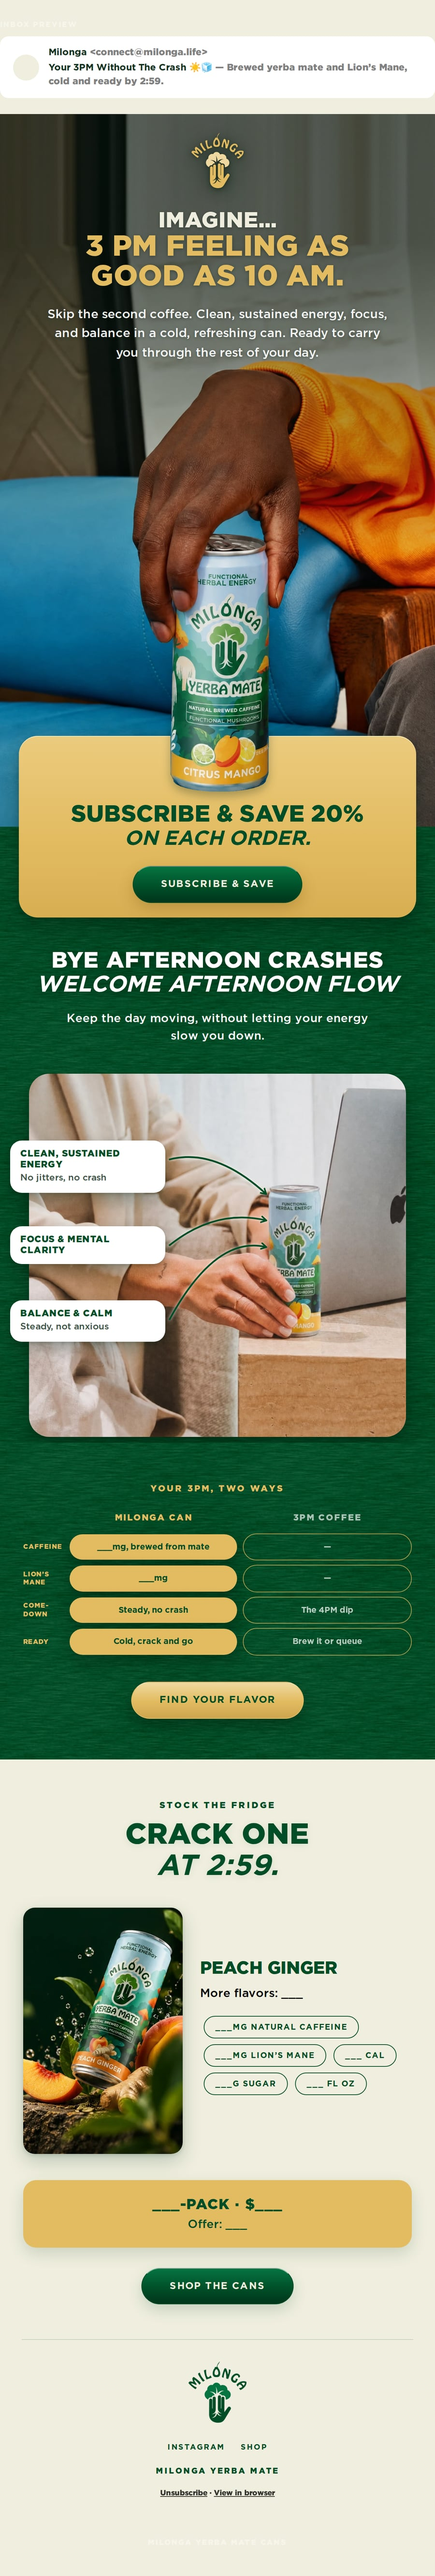
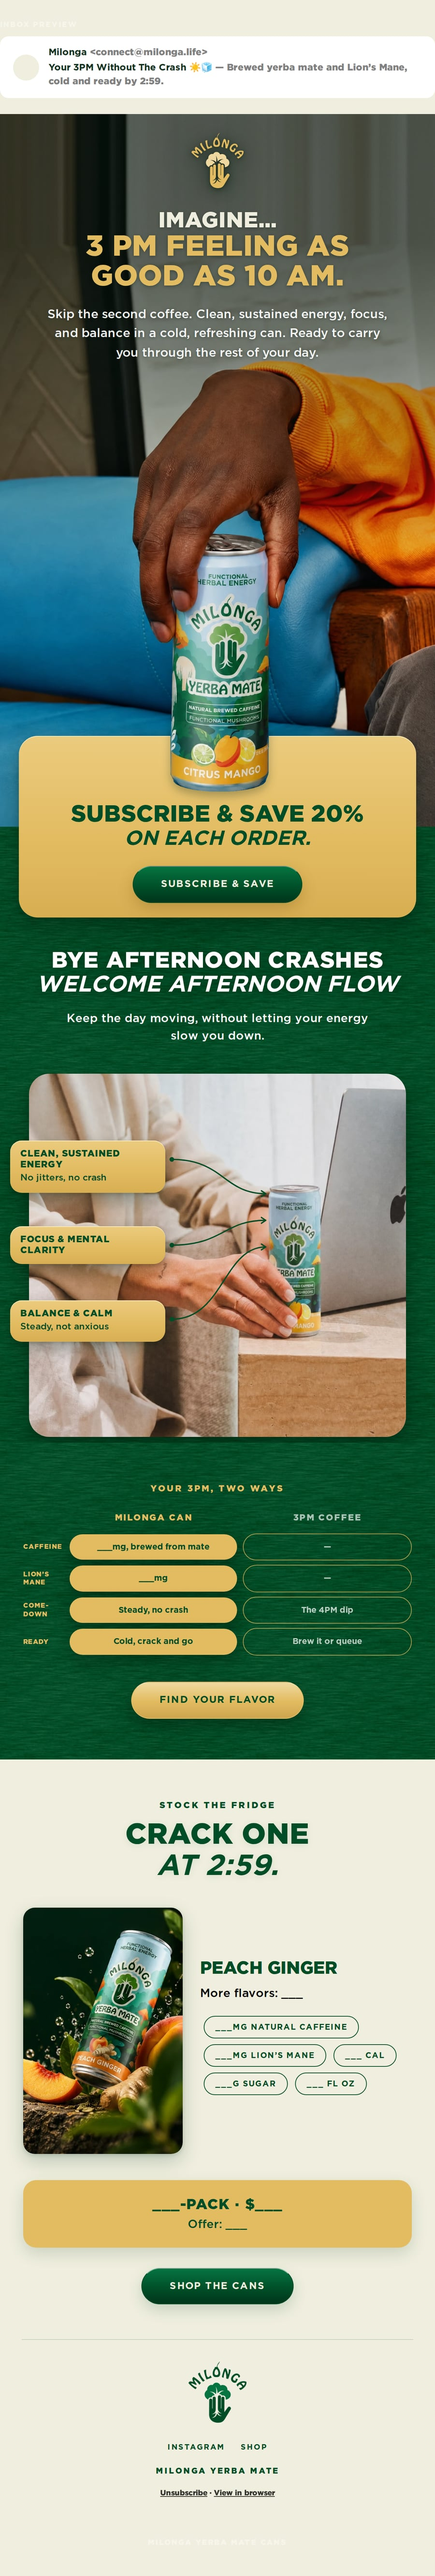
email: gold benefit labels, finer arrows without shadow
Claude-Session: https://claude.ai/code/session_01NhEtXPnfeCJfN73SqBkUZ5

Changed region(s): [[0.0, 0.4369, 0.4356, 0.5306], [0.4356, 0.4681, 0.6222, 0.4993]]

diff --git a/email-ds/emails/three-pm-cans.jsx b/email-ds/emails/three-pm-cans.jsx
@@ -176,29 +176,35 @@ function ThreePmCans() {
 
           CALLOUTS.map((c, i) => h('div', { key: i, style: { position: 'absolute', zIndex: 1,
             left: LABEL.x, top: c.y, width: LABEL.w, boxSizing: 'border-box',
-            background: '#FFFFFF', borderRadius: 16, padding: '11px 14px',
-            boxShadow: '0 10px 22px rgba(0,26,13,0.30), 0 2px 4px rgba(0,26,13,0.18)' } },
+            background: 'linear-gradient(180deg, #EBCB7E 0%, #E3BC62 55%, #D8AE52 100%)',
+            borderRadius: 16, padding: '11px 14px',
+            boxShadow: '0 10px 22px rgba(0,26,13,0.30), 0 2px 4px rgba(0,26,13,0.18), inset 0 1px 0 rgba(255,246,214,0.7)' } },
             h('div', { style: { fontFamily: FONT, fontWeight: 900, fontSize: 12.5, lineHeight: 1.2,
               letterSpacing: '0.06em', textTransform: 'uppercase', color: FOREST } }, c.title),
             c.note ? h('div', { style: { fontFamily: FONT, fontWeight: 500, fontSize: 12.5,
-              lineHeight: 1.35, color: '#3B5344', marginTop: 3 } }, c.note) : null,
+              lineHeight: 1.35, color: FOREST, marginTop: 3 } }, c.note) : null,
           )),
 
-          // Forest arrows with a cream edge glow, so the line holds over the
-          // grey sofa as well as the pale linen.
+          // The arrows: no shadow, a fine forest line, a small dot where it
+          // leaves the label and an open chevron where it meets the can. A
+          // cubic curve leaves the label level and arrives at the can level,
+          // so each one reads as a drawn gesture rather than a straight rule.
           h('svg', { width: 600, height: FRAME.h, viewBox: `0 0 600 ${FRAME.h}`,
-            style: { position: 'absolute', left: 0, top: 0, zIndex: 1, overflow: 'visible',
-              filter: 'drop-shadow(0 0 2px rgba(251,248,239,0.95))' } },
+            style: { position: 'absolute', left: 0, top: 0, zIndex: 1, overflow: 'visible' } },
             h('defs', null,
-              h('marker', { id: 'arrowhead', markerWidth: 10, markerHeight: 10, refX: 7, refY: 5,
+              h('marker', { id: 'arrowhead', markerWidth: 12, markerHeight: 12, refX: 8, refY: 6,
                 orient: 'auto', markerUnits: 'userSpaceOnUse' },
-                h('path', { d: 'M1,1 L8,5 L1,9', fill: 'none', stroke: FOREST, strokeWidth: 2.2,
+                h('path', { d: 'M2,2 L8,6 L2,10', fill: 'none', stroke: FOREST, strokeWidth: 1.8,
                   strokeLinecap: 'round', strokeLinejoin: 'round' })),
             ),
-            CALLOUTS.map((c, i) => h('path', { key: i,
-              d: `M ${LABEL.x + LABEL.w + 6} ${c.sy} Q ${c.cx} ${c.cy} ${c.tx} ${c.ty}`,
-              fill: 'none', stroke: FOREST, strokeWidth: 2.4, strokeLinecap: 'round',
-              markerEnd: 'url(#arrowhead)' })),
+            CALLOUTS.map((c, i) => {
+              const x0 = LABEL.x + LABEL.w + 9, dx = c.tx - x0;
+              return h('g', { key: i },
+                h('circle', { cx: x0, cy: c.sy, r: 3.2, fill: FOREST }),
+                h('path', { d: `M ${x0} ${c.sy} C ${x0 + dx * 0.55} ${c.sy}, ${c.tx - dx * 0.45} ${c.ty}, ${c.tx} ${c.ty}`,
+                  fill: 'none', stroke: FOREST, strokeWidth: 1.8, strokeLinecap: 'round',
+                  markerEnd: 'url(#arrowhead)' }));
+            }),
           ),
         ),
       ),
